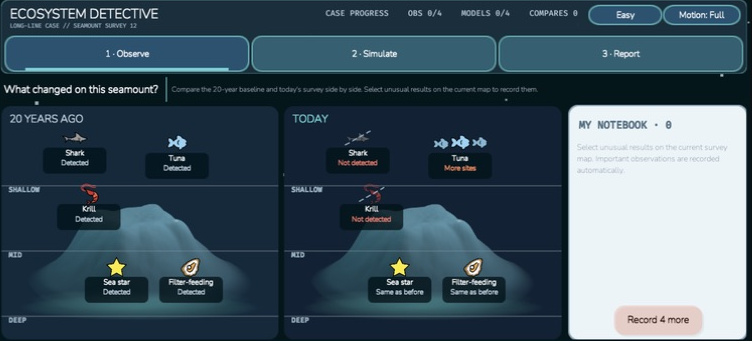
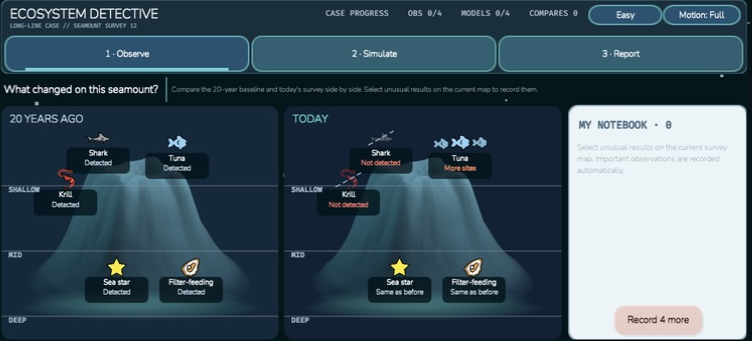
feat: use taller observe seamount render

Changed region(s): [[0.0306, 0.3812, 0.3059, 0.7918], [0.4282, 0.3812, 0.7035, 0.7918], [0.4282, 0.7331, 0.4588, 0.7918]]

diff --git a/game/Assets/Editor/InvestigationV2/InvestigationV2Builder.cs b/game/Assets/Editor/InvestigationV2/InvestigationV2Builder.cs
@@ -50,7 +50,7 @@ namespace EDNA.Investigation.V2.Editor
                 "Broad range; current temperature alone does not explain a repeated all-depth non-detection.",
                 new[] { "tuna" }, Array.Empty<string>(),
                 new[] { "LargePredator", "LongLineSensitive", "TrawlBycatch" },
-                new Vector2(0.22f, 0.95f));
+                new Vector2(0.32f, 0.95f));
             InvestigationV2SpeciesDefinition tuna = CreateSpecies(
                 "SpeciesV2_Tuna.asset", "tuna", "Tuna",
                 "A mobile fish that eats krill and is normally preyed on by sharks in this simplified food web.",
@@ -68,7 +68,7 @@ namespace EDNA.Investigation.V2.Editor
                 "Sensitive to several pressures; non-detection alone cannot identify the cause.",
                 Array.Empty<string>(), new[] { "tuna" },
                 new[] { "Prey", "FoodWeb", "PlasticSensitive" },
-                new Vector2(0.28f, 0.64f));
+                new Vector2(0.18f, 0.72f));
             InvestigationV2SpeciesDefinition seaStar = CreateSpecies(
                 "SpeciesV2_SeaStar.asset", "sea_star", "Sea star",
                 "A benthic indicator used to test whether the seafloor community was disturbed.",

diff --git a/game/Assets/Tests/EditMode/InvestigationV2/InvestigationV2DomainTests.cs b/game/Assets/Tests/EditMode/InvestigationV2/InvestigationV2DomainTests.cs
@@ -82,8 +82,8 @@ namespace EDNA.Investigation.V2.Tests
             const string path = "Assets/Art/InvestigationV2/Seamount/seamount_hero.png";
             UnityEngine.Sprite sprite = AssetDatabase.LoadAssetAtPath<UnityEngine.Sprite>(path);
             Assert.That(sprite, Is.Not.Null);
-            Assert.That(sprite.rect.width, Is.EqualTo(640f).Within(0.1f));
-            Assert.That(sprite.rect.height, Is.EqualTo(333f).Within(0.1f));
+            Assert.That(sprite.rect.width, Is.EqualTo(600f).Within(0.1f));
+            Assert.That(sprite.rect.height, Is.EqualTo(434f).Within(0.1f));
 
             TextureImporter importer = AssetImporter.GetAtPath(path) as TextureImporter;
             Assert.That(importer, Is.Not.Null);

diff --git a/game/Assets/Art/InvestigationV2/Seamount/GENERATION.md b/game/Assets/Art/InvestigationV2/Seamount/GENERATION.md
@@ -2,18 +2,19 @@
 
 `seamount_hero.png` is a deterministic, in-house render generated by:
 
-- source: `docs/local-reference/seamount-render/make_seamount.py`
+- source: `docs/local-reference/seamount-render/make_seamount.py`, rendered with `SEAMOUNT_HEIGHT=1.7`
+- source output: `docs/local-reference/seamount-render/out-h170/seamount_hero.png`
 - generator seed: `20260820`
 - source render: `1600×1100` transparent RGBA PNG
[4 lines of base64/hex data omitted]
 
 The runtime sprite is produced deterministically from that render:
 
-1. Crop the non-transparent bounds with 24px padding: `(144, 188, 1474, 881)`.
-2. Resize proportionally with Lanczos filtering to `640×333`.
+1. Crop the non-transparent bounds with 24px padding: `(144, 55, 1474, 1017)`.
+2. Resize proportionally with Lanczos filtering to `600×434`.
 3. Save as an optimized true-colour RGBA PNG.
 
[2 lines of base64/hex data omitted]
 
 Only the hero angle is included in the Unity project. The eight-angle turntable and heightmap remain local reference outputs until a separate angle-control or 3D-terrain feature is approved.
